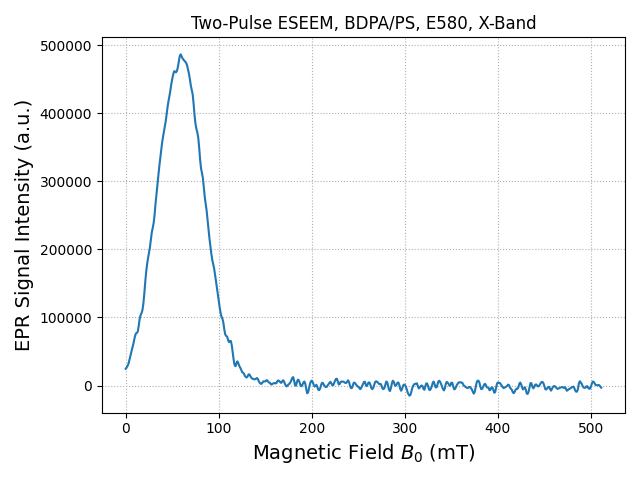
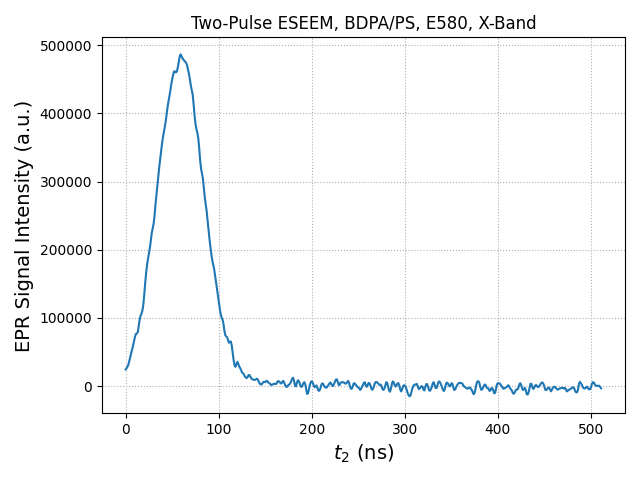
Description of experiment-type attribute for fancy_plot

diff --git a/doc/sl_examples/plot_06_ETPC.py b/doc/sl_examples/plot_06_ETPC.py
@@ -13,6 +13,7 @@ import numpy as np
 # Once the Python environment is properly set up the data files can be loaded.
 
 data_E580 = sl.load("../data/EPR/Echo-Transient-Phase-Cycling/33726-ETPC.DTA")
+data_E580.attrs["experiment_type"] = "epr_transient_E580"
 
 # %%
 # E580: BDPA/PS

diff --git a/doc/userGuide/plotting.rst b/doc/userGuide/plotting.rst
@@ -1,0 +1,83 @@
+=============
+Plotting Data
+=============
+
+SpinLab uses MatplotLib to plot data and the entire ``pyplot`` module of matplotlib is available in SpinLab. For example after importing SpinLab the pyplot ``figure()`` commands can be used in the following way:
+
+
+.. code-block:: python
+
+    >>> import spinlab as sl
+    >>> sl.plt.figure()
+
+Fancy Plot
+==========
+SpinLab has a built-in plotting function called ``fancy_plot`` to generate publication ready figures. The appearance of the figure is controlled by the attribute ``experiment-type`` of the sldata object. This attribute is set automatically, when a data set is imported and the axis labeling, (default) title, appearance is controlled through the value of this sldata object attribute.
+
+The following table gives a list of available attributes. These parameters are defined in the SpinLab configuration file.
+
+
+.. list-table::
+  :widths: 10 50 50 120
+
+  * - **#**
+    - **Attribute**
+    - **Type**
+    - **Description**
+  * - 1
+    - `echo_decay`
+    - EPR
+    - Echo intensity measured as a function of the pulse separation
+  * - 2
+    - `eldor_profile`
+    - EPR
+    - ELDOR profile
+  * - 3
+    - `enhancements_P`
+    - DNP
+    - Description
+  * - 4
+    - `enhancements_PdBm`
+    - DNP
+    - Description
+  * - 5
+    - `enhancements_PW`
+    - DNP
+    - Description
+  * - 6
+    - `epr_spectrum`
+    - EPR
+    - Description
+  * - 7
+    - `epr_transient`
+    - EPR
+    - Description
+  * - 8
+    - `epr_transient_E580`
+    - EPR
+    - Description
+  * - 9
+    - `inversion_revovyer`
+    - EPR/NMR
+    - Description
+  * - 10
+    - `polarization_buildup`
+    - DNP
+    - Description
+  * - 11
+    - `saturation_recovery`
+    - EPR/NMR
+    - Description
+  * - 12
+    - `sl_enhancement_profile_f`
+    - EPR/NMR
+    - Description
+
+Generic Plotting Function
+=========================
+If no experimnent type is specified, SpinLab has a generic plotting function to plot a SpinLab data object (here data). Simply use the ``sl.plot()`` command:
+
+.. code-block:: python
+
+    >>> sl.plot(data)
+

diff --git a/doc/sl_examples/plot_06_ETPC.rst b/doc/sl_examples/plot_06_ETPC.rst
@@ -44,12 +44,13 @@ This example demonstrates how to load and plot an echo transient (time trace) of
 
 Once the Python environment is properly set up the data files can be loaded.
 
-.. GENERATED FROM PYTHON SOURCE LINES 14-17
+.. GENERATED FROM PYTHON SOURCE LINES 14-18
 
 .. code-block:: Python
 
 
     data_E580 = sl.load("../data/EPR/Echo-Transient-Phase-Cycling/33726-ETPC.DTA")
+    data_E580.attrs["experiment_type"] = "epr_transient_E580"
 
 
 
@@ -58,12 +59,12 @@ Once the Python environment is properly set up the data files can be loaded.
 
 
 
-.. GENERATED FROM PYTHON SOURCE LINES 18-20
+.. GENERATED FROM PYTHON SOURCE LINES 19-21
 
 E580: BDPA/PS
 -------------
 
-.. GENERATED FROM PYTHON SOURCE LINES 20-26
+.. GENERATED FROM PYTHON SOURCE LINES 21-27
 
 .. code-block:: Python
 
@@ -85,14 +86,14 @@ E580: BDPA/PS
 
 
 
-.. GENERATED FROM PYTHON SOURCE LINES 27-28
+.. GENERATED FROM PYTHON SOURCE LINES 28-29
 
 The data set can be downloaded from the  :ref:`SampleData` page.
 
 
 .. rst-class:: sphx-glr-timing
 
-   **Total running time of the script:** (0 minutes 0.130 seconds)
+   **Total running time of the script:** (0 minutes 0.180 seconds)
 
 
 .. _sphx_glr_download_sl_examples_plot_06_ETPC.py:

diff --git a/doc/sg_execution_times.rst b/doc/sg_execution_times.rst
@@ -6,7 +6,7 @@
 
 Computation times
 =================
-**00:00.670** total execution time for 4 files **from all galleries**:
+**00:01.328** total execution time for 4 files **from all galleries**:
 
 .. container::
 
@@ -33,14 +33,14 @@ Computation times
      - Time
      - Mem (MB)
    * - :ref:`sphx_glr_sl_examples_plot_01_EDFS.py` (``..\examples\plot_01_EDFS.py``)
-     - 00:00.253
+     - 00:00.591
      - 0.0
    * - :ref:`sphx_glr_sl_examples_plot_08_3PE.py` (``..\examples\plot_08_3PE.py``)
-     - 00:00.185
-     - 0.0
-   * - :ref:`sphx_glr_sl_examples_plot_06_ETPC.py` (``..\examples\plot_06_ETPC.py``)
-     - 00:00.130
+     - 00:00.376
      - 0.0
    * - :ref:`sphx_glr_sl_examples_plot_07_2PE.py` (``..\examples\plot_07_2PE.py``)
-     - 00:00.102
+     - 00:00.181
+     - 0.0
+   * - :ref:`sphx_glr_sl_examples_plot_06_ETPC.py` (``..\examples\plot_06_ETPC.py``)
+     - 00:00.180
      - 0.0

diff --git a/doc/sl_examples/sg_execution_times.rst b/doc/sl_examples/sg_execution_times.rst
@@ -6,7 +6,7 @@
 
 Computation times
 =================
-**00:00.670** total execution time for 4 files **from sl_examples**:
+**00:01.328** total execution time for 4 files **from sl_examples**:
 
 .. container::
 
@@ -33,14 +33,14 @@ Computation times
      - Time
      - Mem (MB)
    * - :ref:`sphx_glr_sl_examples_plot_01_EDFS.py` (``plot_01_EDFS.py``)
-     - 00:00.253
+     - 00:00.591
      - 0.0
    * - :ref:`sphx_glr_sl_examples_plot_08_3PE.py` (``plot_08_3PE.py``)
-     - 00:00.185
-     - 0.0
-   * - :ref:`sphx_glr_sl_examples_plot_06_ETPC.py` (``plot_06_ETPC.py``)
-     - 00:00.130
+     - 00:00.376
      - 0.0
    * - :ref:`sphx_glr_sl_examples_plot_07_2PE.py` (``plot_07_2PE.py``)
-     - 00:00.102
+     - 00:00.181
+     - 0.0
+   * - :ref:`sphx_glr_sl_examples_plot_06_ETPC.py` (``plot_06_ETPC.py``)
+     - 00:00.180
      - 0.0

diff --git a/doc/sl_examples/plot_01_EDFS.rst b/doc/sl_examples/plot_01_EDFS.rst
@@ -126,7 +126,7 @@ The data set can be downloaded from the  :ref:`SampleData` page.
 
 .. rst-class:: sphx-glr-timing
 
-   **Total running time of the script:** (0 minutes 0.253 seconds)
+   **Total running time of the script:** (0 minutes 0.591 seconds)
 
 
 .. _sphx_glr_download_sl_examples_plot_01_EDFS.py:

diff --git a/doc/sl_examples/plot_08_3PE.rst b/doc/sl_examples/plot_08_3PE.rst
@@ -124,7 +124,7 @@ The data set can be downloaded from the  :ref:`SampleData` page.
 
 .. rst-class:: sphx-glr-timing
 
-   **Total running time of the script:** (0 minutes 0.185 seconds)
+   **Total running time of the script:** (0 minutes 0.376 seconds)
 
 
 .. _sphx_glr_download_sl_examples_plot_08_3PE.py:

diff --git a/doc/sl_examples/plot_07_2PE.rst b/doc/sl_examples/plot_07_2PE.rst
@@ -92,7 +92,7 @@ The data set can be downloaded from the  :ref:`SampleData` page.
 
 .. rst-class:: sphx-glr-timing
 
-   **Total running time of the script:** (0 minutes 0.102 seconds)
+   **Total running time of the script:** (0 minutes 0.181 seconds)
 
 
 .. _sphx_glr_download_sl_examples_plot_07_2PE.py:

diff --git a/doc/index.rst b/doc/index.rst
@@ -72,6 +72,7 @@ SpinLab can be easily installed via pip:
 
    userGuide/gettingStarted
    userGuide/indexing
+   userGuide/plotting
    
 
 .. toctree::
